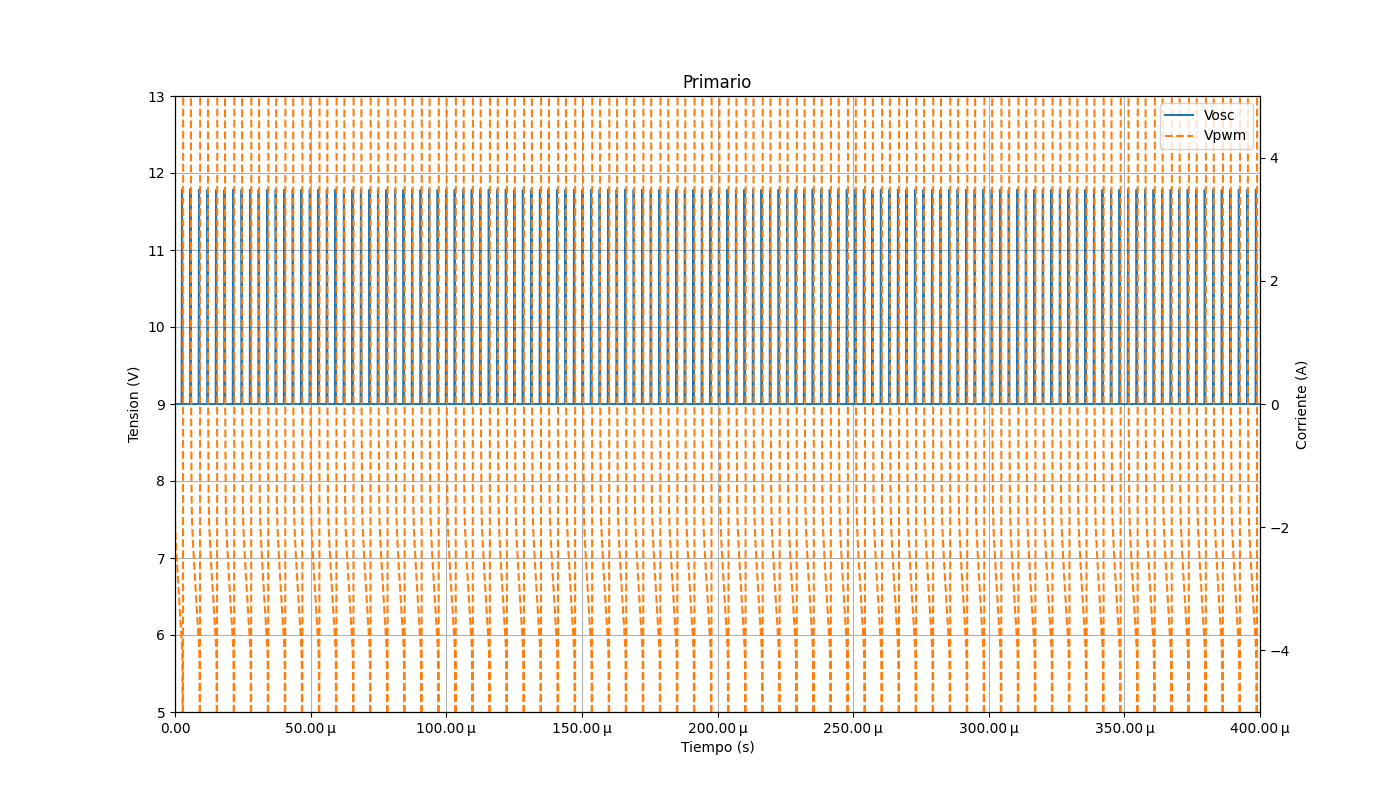
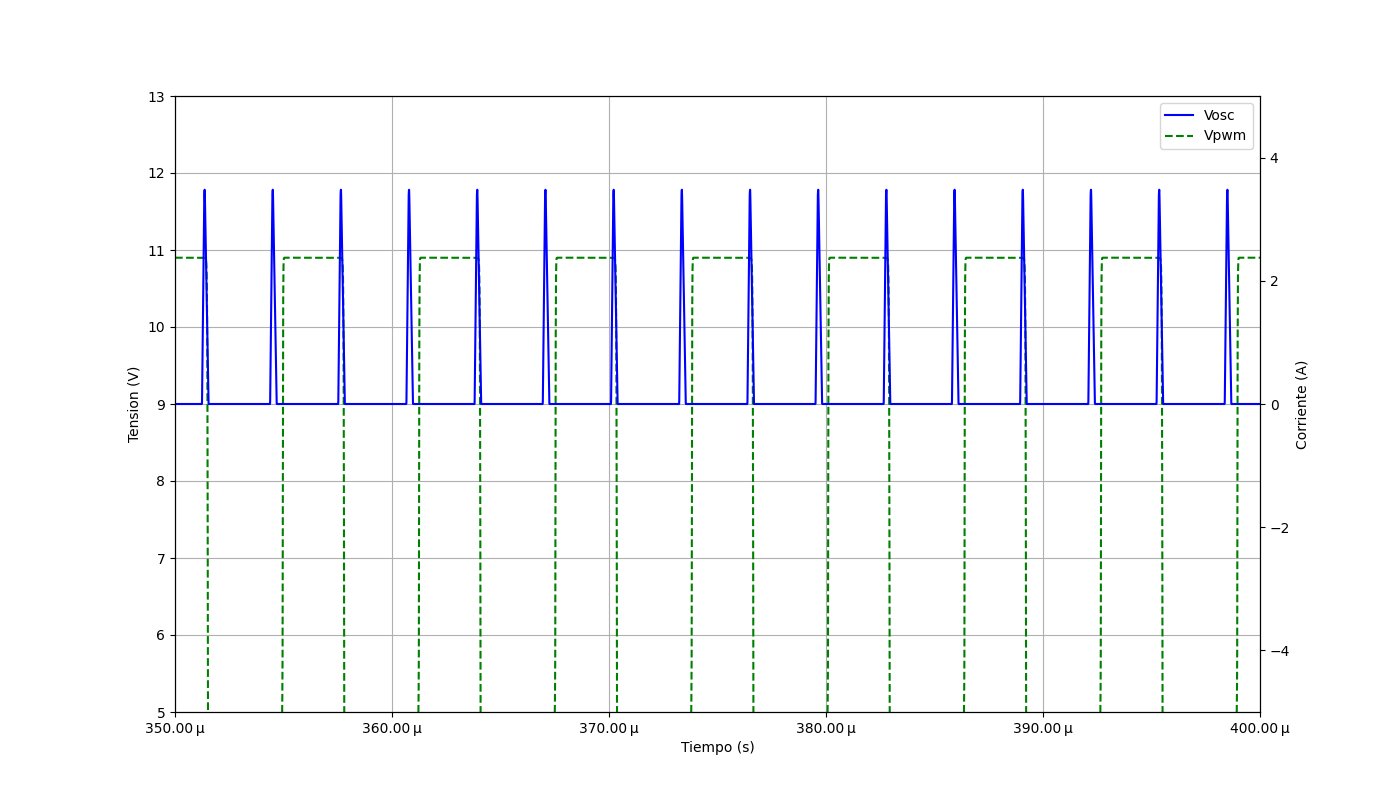
updated plot

Changed region(s): [[0.1229, 0.0938, 0.9214, 0.9375], [0.0921, 0.9062, 0.1536, 0.9375]]

diff --git a/TP2/PlotScrips/main.py b/TP2/PlotScrips/main.py
@@ -3,7 +3,6 @@ import matplotlib.pyplot as plt
 from matplotlib.ticker import EngFormatter
 
 if __name__ == '__main__':
-
     plots = read_json_data('plot_info.json')['plots']
     for plot in plots:
         filename = plot['spice_filename']
@@ -11,9 +10,10 @@ if __name__ == '__main__':
         data = read_spice_data(data_filename)
         time = data[plot['spice_time_label']]
 
+        plt.title(plot['title'])
+
         fig, ax1 = plt.subplots()
         fig.set_size_inches(14, 8)
-        plt.title(plot['title'])
 
         # left y axis
         ax1.set_ylabel(plot['left_y_label'])
@@ -31,11 +31,22 @@ if __name__ == '__main__':
         ax2.set_ylabel(plot['right_y_label'])  # we already handled the x-label with ax1
         ax2.set_ylim(tuple(plot['right_y_limit']))
 
+        lines = []
+        labels = []
         for graphic in plot['graphics']:
             curr_data = data[graphic['spice_label']]
-            if graphic['belongsToRightYAxis']:
-                ax1.plot(time, curr_data, label=graphic['label'], linestyle=graphic['linestyle'])
+            if plot['is_one_direction']:
+                line = ax1.plot(time, curr_data, label=graphic['label'], linestyle=graphic['linestyle'], color=graphic['color'])[0]
+                label = line.get_label()
             else:
-                ax2.plot(time, curr_data, label=graphic['label'], linestyle=graphic['linestyle'])
-        plt.legend()
+                if graphic['belongsToRightYAxis']:
+                    line = ax1.plot(time, curr_data, label=graphic['label'], linestyle=graphic['linestyle'], color=graphic['color'])[0]
+                    label = line.get_label()
+                else:
+                    line = ax2.plot(time, curr_data, label=graphic['label'], linestyle=graphic['linestyle'], color=graphic['color'])[0]
+                    label = line.get_label()
+            lines.append(line)
+            labels.append(label)
+
+        plt.legend(lines, labels)
         plt.savefig('output/' + plot['title'])
